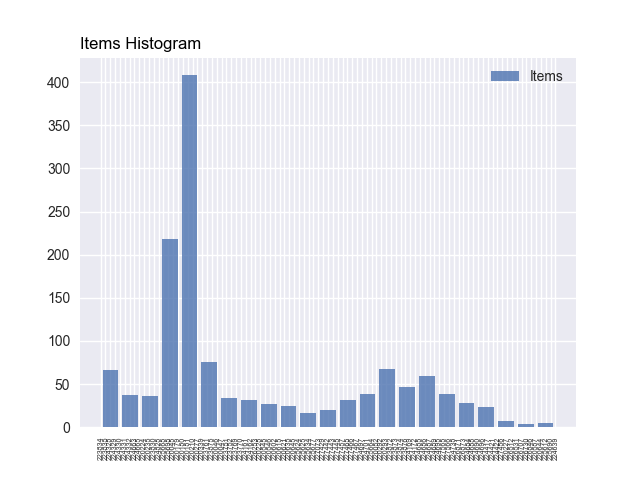
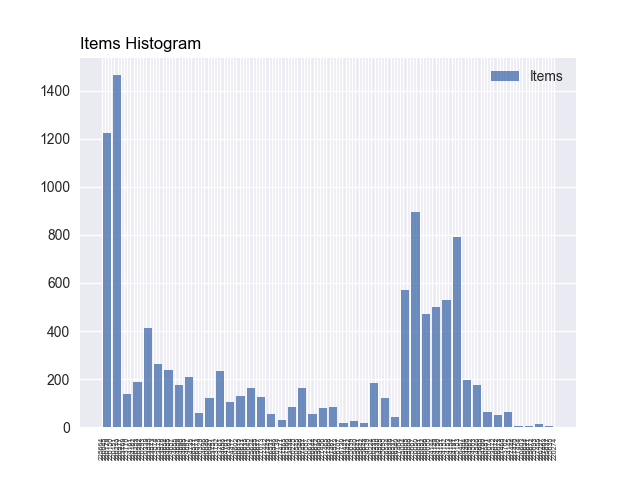
Started LoS Histogram -> Getting the data LoS for each haid, using GroupByKey, missing decent plotting

diff --git a/Projects/p2/src/extractors/AbstractExtractor.py b/Projects/p2/src/extractors/AbstractExtractor.py
@@ -14,18 +14,25 @@ class AbstractExtractor:
         self.name = name
         self.process = None  # To be overriden
 
-    def __process(self, p_collection):
+    def collection_to_list(self, p_collection):
+        """Transform a collection into a list"""
+        return (
+            p_collection |
+            '%s: Gathering Data on List' % self.name >> beam.combiners.ToList()
+        )
+
+    def processor(self, p_collection):
         """Filter columns of interest and make operations over them.
         Initial dataset Schema:
         "ROW_ID","SUBJECT_ID","HADM_ID","ICUSTAY_ID","ITEMID","CHARTTIME","STORETIME",
         "CGID","VALUE","VALUENUM","VALUEUOM","WARNING","ERROR","RESULTSTATUS","STOPPED"""
-        return (
+        return self.collection_to_list(
             p_collection |
-            '%s: Get columns of interest' % self.name >> beam.ParDo(self.process) |
-            '%s: Gathering Data on List' % self.name >> beam.combiners.ToList()
+            '%s: Get columns of interest' % self.name >> beam.ParDo(
+                self.process)
         )
 
-    def columnToList(self, p_collection, col):
+    def column_to_list(self, p_collection, col):
         """Transforms the given column in a list, if it fits in memory"""
         return(
             p_collection |
@@ -47,6 +54,6 @@ class AbstractExtractor:
         """Converts the given PCollection into human understandable data
         in a visual form (plots), using the previously defined process function"""
         self.plot(
-            self.__process(p_collection),
+            self.processor(p_collection),
             output_folder
         )

diff --git a/Projects/p2/src/extractors/LoSHistogram.py b/Projects/p2/src/extractors/LoSHistogram.py
@@ -1,0 +1,52 @@
+from AbstractExtractor import AbstractExtractor
+import apache_beam as beam
+
+from dateutil.parser import parse
+import time
+
+from matplotlib import pyplot as plt
+
+
+class Process(beam.DoFn):
+
+    MS_TO_MIN = 1.0 / 3600.0
+
+    def process(self, haid_entry):
+        dates_array = map(lambda date: time.mktime(parse(date).timetuple()),
+                          haid_entry[1])
+
+        return [(max(dates_array) - min(dates_array)) * self.MS_TO_MIN]
+
+
+class LoSHistogram(AbstractExtractor):
+
+    def __init__(self, name):
+        super(LoSHistogram, self).__init__(name)
+
+        self.process = Process()
+
+    def processor(self, p_collection):
+        return (
+            p_collection |
+            beam.FlatMap(lambda el: [(el[0], el[3])]) |
+            beam.GroupByKey() |
+            beam.ParDo(self.process)
+        )
+
+    def output_data(self, haids, output_folder):
+        self.resetPlotting()
+
+        plt.hist(haids, alpha=0.8, bins='rice', label='LoS (in mins)', rwidth=0.8)
+        plt.legend(loc='upper right')
+        plt.xticks(rotation=90, fontsize=5)
+
+        plt.title('Length of Stay Histogram', loc='left',
+                  fontsize=12, fontweight=0, color='black')
+
+        plt.savefig('%s/%s.png' % (output_folder, self.name))
+
+    def plot(self, p_collection, output_folder):
+        p_collection | \
+            '%s: Output data as a plot' % self.name >> beam.ParDo(
+                lambda data: self.output_data(data, output_folder)
+            )

diff --git a/Projects/p2/src/main.py b/Projects/p2/src/main.py
@@ -4,6 +4,7 @@ import argparse
 
 from extractors import ValuesPerTime as vpt
 from extractors import ItemsHistogram as ih
+from extractors import LoSHistogram as los
 
 """Your task is to perform a statistical analysis on this data
 and produce timeline graphs for each patient (SUBJECT_ID)"""
@@ -22,7 +23,6 @@ class FilterPatient(beam.DoFn):
         # # Only return if it's this patient data
         if el_data[1] == self.patient_id:
             return [el_data[2:]]
-
 
 
 class CollectionPrinter(beam.DoFn):
@@ -52,9 +52,13 @@ def run(args):
         # print_collection(patient_data)
 
         # Call different implemented extractors here
-        vpt.ValuesPerTime("ValuesPerTime").extract(patient_data, args.output_folder)
-        ih.ItemsHistogram("ItemsHistogram").extract(patient_data, args.output_folder)
-
+        vpt.ValuesPerTime("ValuesPerTime").extract(
+            patient_data, args.output_folder)
+        ih.ItemsHistogram("ItemsHistogram").extract(
+            patient_data, args.output_folder)
+        los.LoSHistogram("LoSHistogram").extract(
+            patient_data, args.output_folder
+        )
 
 
 if __name__ == '__main__':

diff --git a/Projects/p2/README.md b/Projects/p2/README.md
@@ -1,6 +1,6 @@
 # Project 2 BDCC
 
-Create a virtual environment using:
+Create a virtual environment using `python2`:
 
 * MacOS:
 ```bash
@@ -12,3 +12,4 @@ See this [tutorial](https://www.andreagrandi.it/2018/12/19/installing-python-and
 # Helpers:
 * [Apache Beam Programming Guide](https://beam.apache.org/documentation/programming-guide/)
 * [Apache Beam: a python example](https://medium.com/@brunoripa/apache-beam-a-python-example-5644ca4ed581)
+* [EVENTS dataset schema](https://mimic.physionet.org/mimictables/chartevents/)
